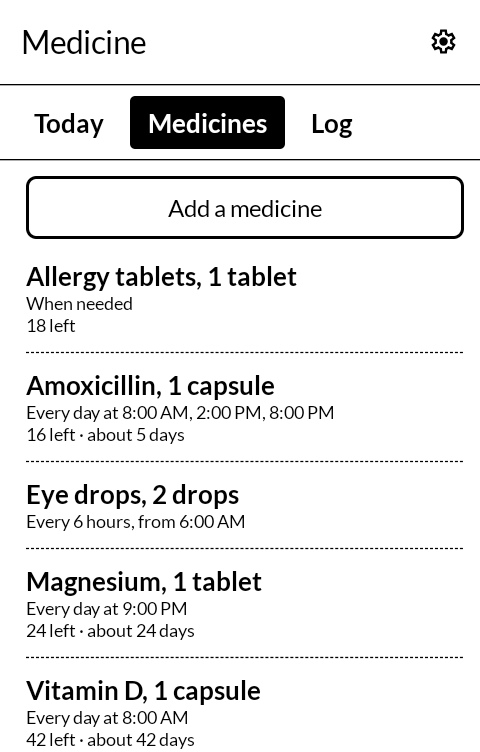
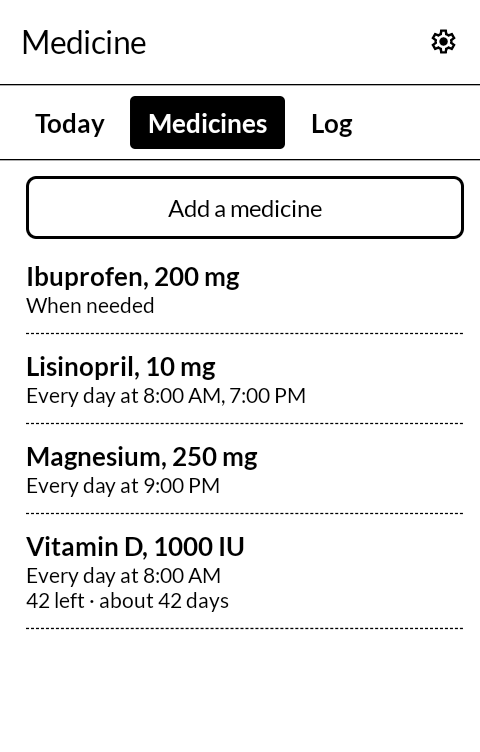
README: screenshots of v0.1.40, with fake data

diff --git a/README.md b/README.md
@@ -14,8 +14,8 @@ ships with.
 
 | | |
 |---|---|
-| ![Today's doses, one taken and one not yet](screenshots/1-today.png) | ![The medicines, with what is left of each](screenshots/2-medicines.png) |
-| ![A medicine's page: how long what is left lasts, the pharmacy](screenshots/3-medicine.png) | ![The log, with the last two weeks](screenshots/4-log.png) |
+| ![Today's doses, taken and still to come](screenshots/1-today.png) | ![The medicines, and how often each is due](screenshots/2-medicines.png) |
+| ![A dose due: Taken or Skip](screenshots/3-due.png) | ![The log: how often each was taken, to share or save](screenshots/4-log.png) |
 
 ## What it does
 
